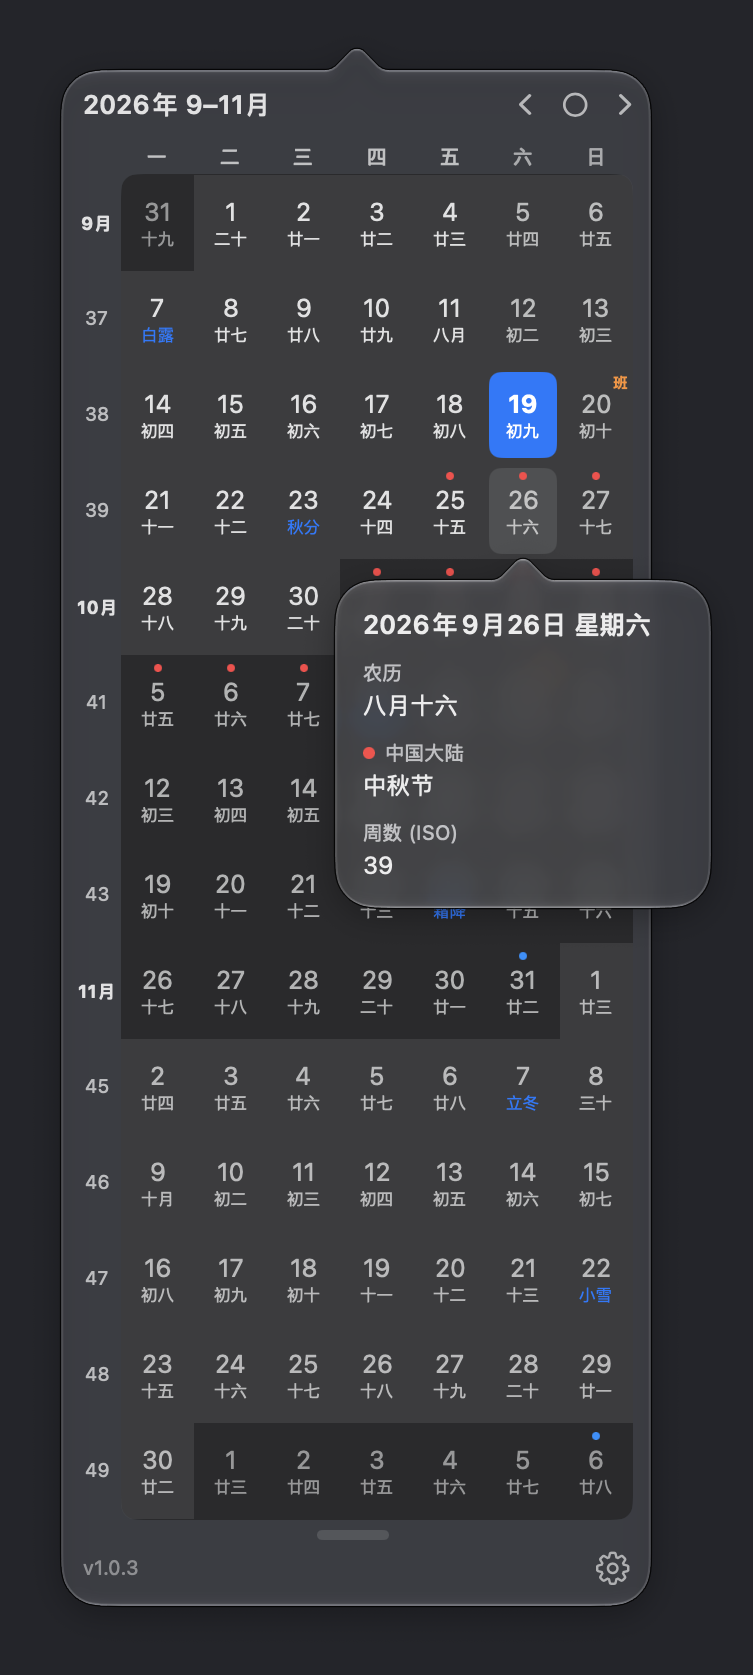
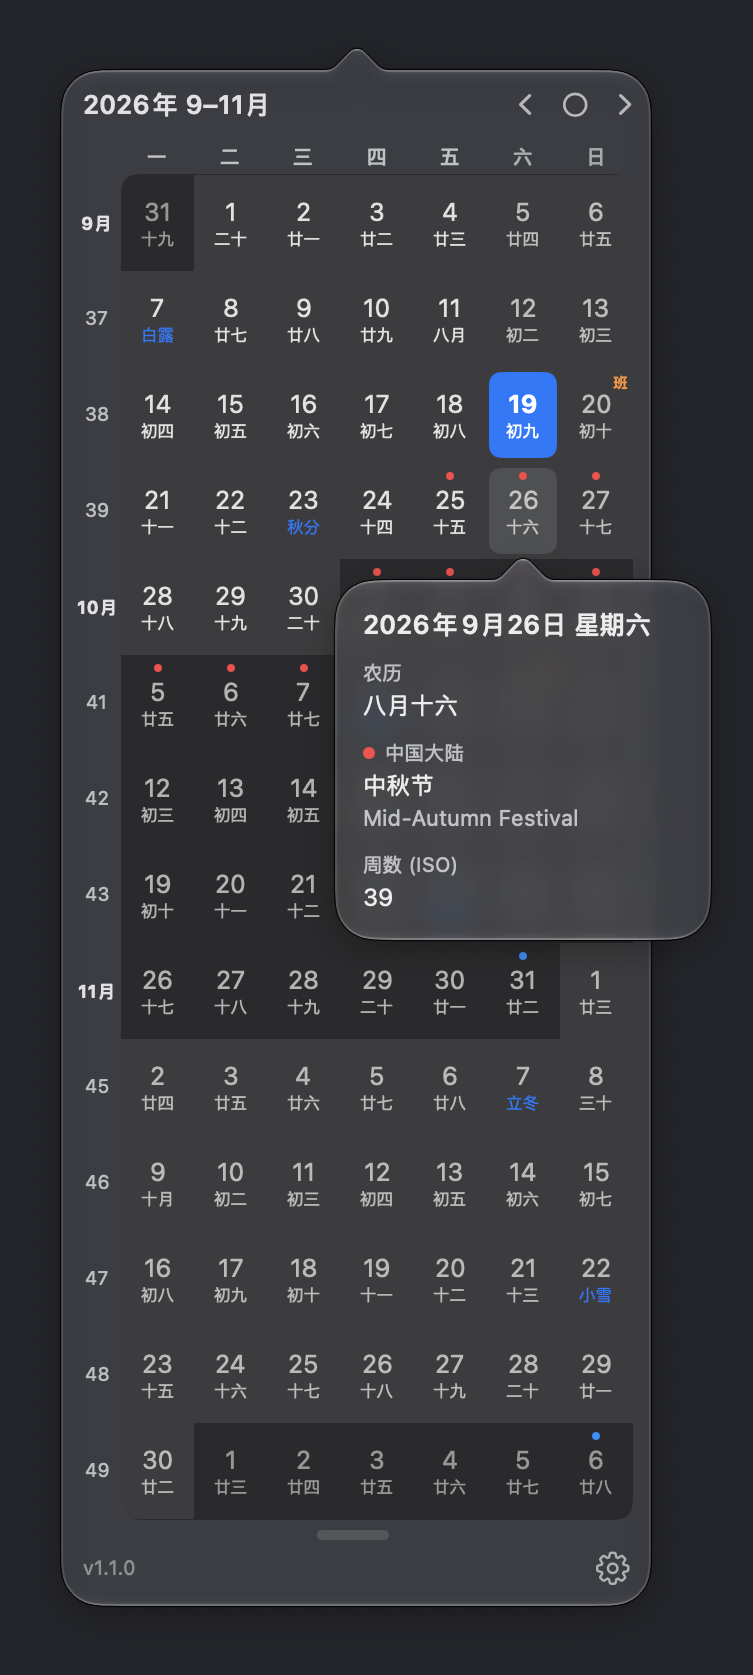
Refresh the README screenshots and the source paths in the docs
The screenshots still showed v1.0.3 and predated the holiday
translations; retake them under the same conditions. PRIVACY.md pointed
at Holidays.swift, which is now the Holidays/ folder, and the README asks
for Xcode 16 now that the project uses synced folders.

Changed region(s): [[0.4276, 0.4657, 0.9469, 0.5899], [0.672, 0.4657, 0.7636, 0.4967], [0.1527, 0.9313, 0.1833, 0.9624]]

diff --git a/README.md b/README.md
@@ -114,7 +114,7 @@ verify it yourself.
 ## Requirements
 
 - macOS 13+
-- Xcode 15+ (Swift 5.9) to build
+- Xcode 16+ to build (the project uses folder-synced groups); `swift run` needs Swift 5.9+
 
 ## Build & Run
 
